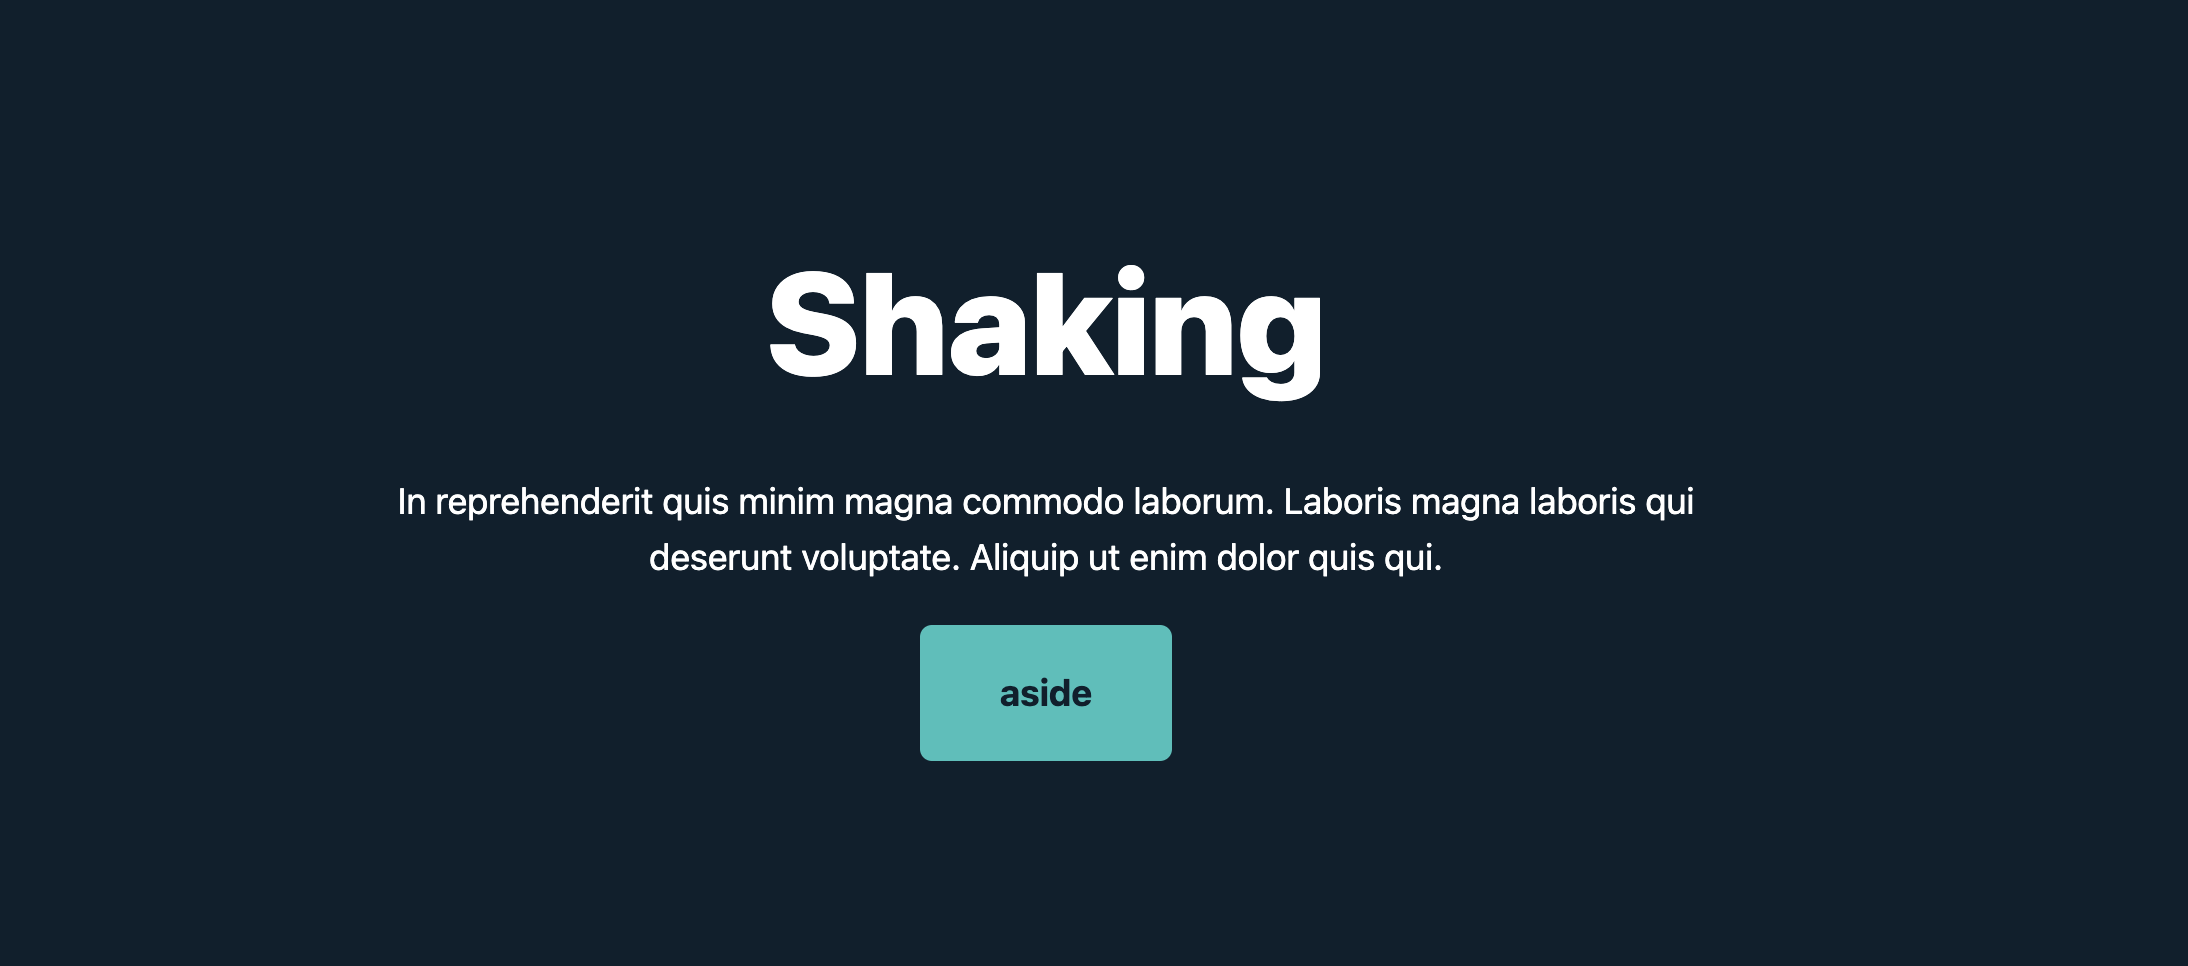
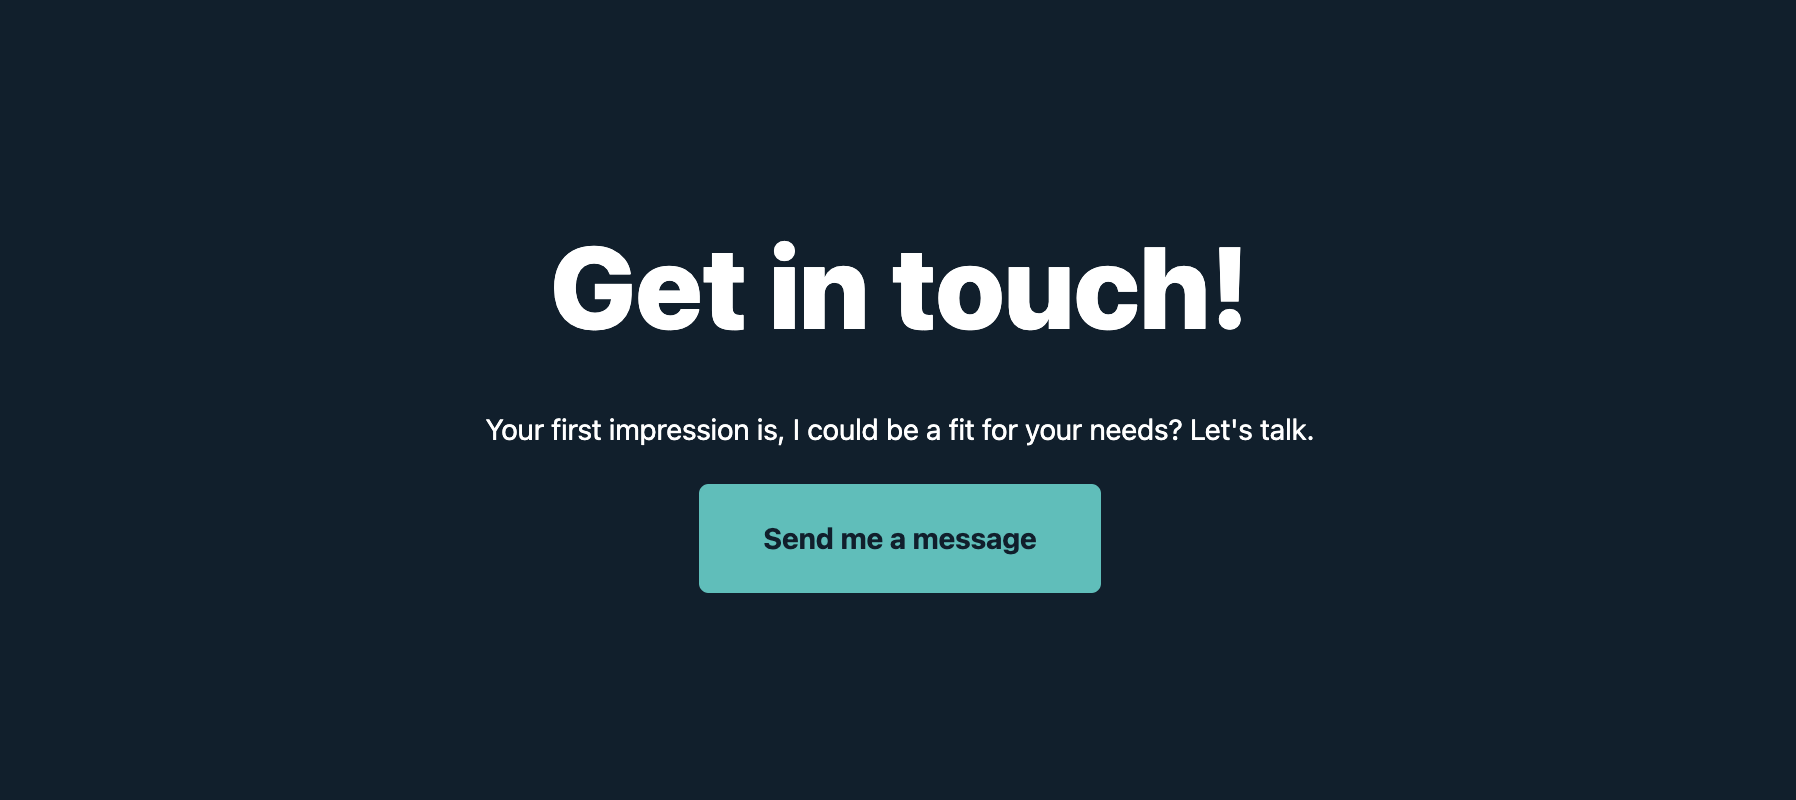
Feat: KeyValueTable Slice

Changed region(s): [[0.1871, 0.5, 0.7795, 0.8125], [0.2806, 0.2812, 0.7171, 0.4375]]

diff --git a/prismicio-types.d.ts b/prismicio-types.d.ts
@@ -260,7 +260,8 @@ type HomeDocumentDataSlicesSlice =
   | ReferencesSlice
   | CallToActionSlice
   | MainStageSlice
-  | MapSlice;
+  | MapSlice
+  | KeyValueTableSlice;
 
 /**
  * Content for Home documents
@@ -338,7 +339,8 @@ type PageDocumentDataSlicesSlice =
   | ReferencesSlice
   | CallToActionSlice
   | MapSlice
-  | MainStageSlice;
+  | MainStageSlice
+  | KeyValueTableSlice;
 
 /**
  * Content for Page documents
@@ -1139,6 +1141,86 @@ export type CallToActionSlice = prismic.SharedSlice<
 >;
 
 /**
+ * Primary content in *KeyValueTable → Primary*
+ */
+export interface KeyValueTableSliceDefaultPrimary {
+  /**
+   * Headline field in *KeyValueTable → Primary*
+   *
+   * - **Field Type**: Title
+   * - **Placeholder**: *None*
+   * - **API ID Path**: key_value_table.primary.headline
+   * - **Documentation**: https://prismic.io/docs/field#rich-text-title
+   */
+  headline: prismic.TitleField;
+
+  /**
+   * Subline field in *KeyValueTable → Primary*
+   *
+   * - **Field Type**: Rich Text
+   * - **Placeholder**: *None*
+   * - **API ID Path**: key_value_table.primary.subline
+   * - **Documentation**: https://prismic.io/docs/field#rich-text-title
+   */
+  subline: prismic.RichTextField;
+}
+
+/**
+ * Primary content in *KeyValueTable → Items*
+ */
+export interface KeyValueTableSliceDefaultItem {
+  /**
+   * Label field in *KeyValueTable → Items*
+   *
+   * - **Field Type**: Rich Text
+   * - **Placeholder**: *None*
+   * - **API ID Path**: key_value_table.items[].label
+   * - **Documentation**: https://prismic.io/docs/field#rich-text-title
+   */
+  label: prismic.RichTextField;
+
+  /**
+   * Value field in *KeyValueTable → Items*
+   *
+   * - **Field Type**: Rich Text
+   * - **Placeholder**: *None*
+   * - **API ID Path**: key_value_table.items[].value
+   * - **Documentation**: https://prismic.io/docs/field#rich-text-title
+   */
+  value: prismic.RichTextField;
+}
+
+/**
+ * Default variation for KeyValueTable Slice
+ *
+ * - **API ID**: `default`
+ * - **Description**: Default
+ * - **Documentation**: https://prismic.io/docs/slice
+ */
+export type KeyValueTableSliceDefault = prismic.SharedSliceVariation<
+  "default",
+  Simplify<KeyValueTableSliceDefaultPrimary>,
+  Simplify<KeyValueTableSliceDefaultItem>
+>;
+
+/**
+ * Slice variation for *KeyValueTable*
+ */
+type KeyValueTableSliceVariation = KeyValueTableSliceDefault;
+
+/**
+ * KeyValueTable Shared Slice
+ *
+ * - **API ID**: `key_value_table`
+ * - **Description**: KeyValueTable
+ * - **Documentation**: https://prismic.io/docs/slice
+ */
+export type KeyValueTableSlice = prismic.SharedSlice<
+  "key_value_table",
+  KeyValueTableSliceVariation
+>;
+
+/**
  * Primary content in *MainStage → Primary*
  */
 export interface MainStageSliceDefaultPrimary {
@@ -1456,6 +1538,11 @@ declare module "@prismicio/client" {
       CallToActionSliceDefaultPrimary,
       CallToActionSliceVariation,
       CallToActionSliceDefault,
+      KeyValueTableSlice,
+      KeyValueTableSliceDefaultPrimary,
+      KeyValueTableSliceDefaultItem,
+      KeyValueTableSliceVariation,
+      KeyValueTableSliceDefault,
       MainStageSlice,
       MainStageSliceDefaultPrimary,
       MainStageSliceVariation,

diff --git a/src/slices/KeyValueTable/index.tsx b/src/slices/KeyValueTable/index.tsx
@@ -1,0 +1,55 @@
+import { Content } from "@prismicio/client";
+import {
+	SliceComponentProps,
+	PrismicRichText,
+	JSXMapSerializer,
+} from "@prismicio/react";
+import { Container, Heading, Paragraph } from "@/components";
+
+const components: JSXMapSerializer = {
+	heading2: ({ children }) => (
+		<Heading as="h2" size="lg" color="default">
+			{children}
+		</Heading>
+	),
+	paragraph: ({ children }) => (
+		<Paragraph color="default">{children}</Paragraph>
+	),
+};
+
+export type KeyValueTableProps =
+	SliceComponentProps<Content.KeyValueTableSlice>;
+
+/**
+ * Component for "KeyValueTable" Slices.
+ */
+const KeyValueTable = ({ slice }: KeyValueTableProps): JSX.Element => {
+	return (
+		<Container
+			data-slice-type={slice.slice_type}
+			data-slice-variation={slice.variation}
+		>
+			<PrismicRichText field={slice.primary.headline} components={components} />
+			{slice.primary.subline && (
+				<div className="mx-auto max-w-5xl text-center pb-10">
+					<PrismicRichText
+						field={slice.primary.subline}
+						components={components}
+					/>
+				</div>
+			)}
+			{slice.items.map((item, i) => (
+				<div key={i} className="grid grid-cols-2 gap-10 w-full">
+					<dt className="text-black dark:text-white text-base font-extrabold capitalize md:text-right pb-5 md:pb-14">
+						<PrismicRichText field={item.label} components={components} />
+					</dt>
+					<dd className="text-black dark:text-white text-base">
+						<PrismicRichText field={item.value} components={components} />
+					</dd>
+				</div>
+			))}
+		</Container>
+	);
+};
+
+export default KeyValueTable;

diff --git a/src/components/Container/Container.tsx b/src/components/Container/Container.tsx
@@ -15,7 +15,7 @@ export function Container({
 	return (
 		<Comp
 			className={clsx(
-				"flex bg-white dark:bg-black items-center justify-between pt-10 md:pt-40 pb-10 md:pb-40 overflow-hidden w-screen",
+				"flex bg-white dark:bg-black items-center justify-between pt-10 md:pt-20 pb-10 md:pb-20 overflow-hidden w-screen",
 				className
 			)}
 			{...restProps}

diff --git a/src/slices/index.ts b/src/slices/index.ts
@@ -4,6 +4,7 @@ import dynamic from "next/dynamic";
 
 export const components = {
   call_to_action: dynamic(() => import("./CallToAction")),
+  key_value_table: dynamic(() => import("./KeyValueTable")),
   main_stage: dynamic(() => import("./MainStage")),
   map: dynamic(() => import("./Map")),
   references: dynamic(() => import("./References")),
